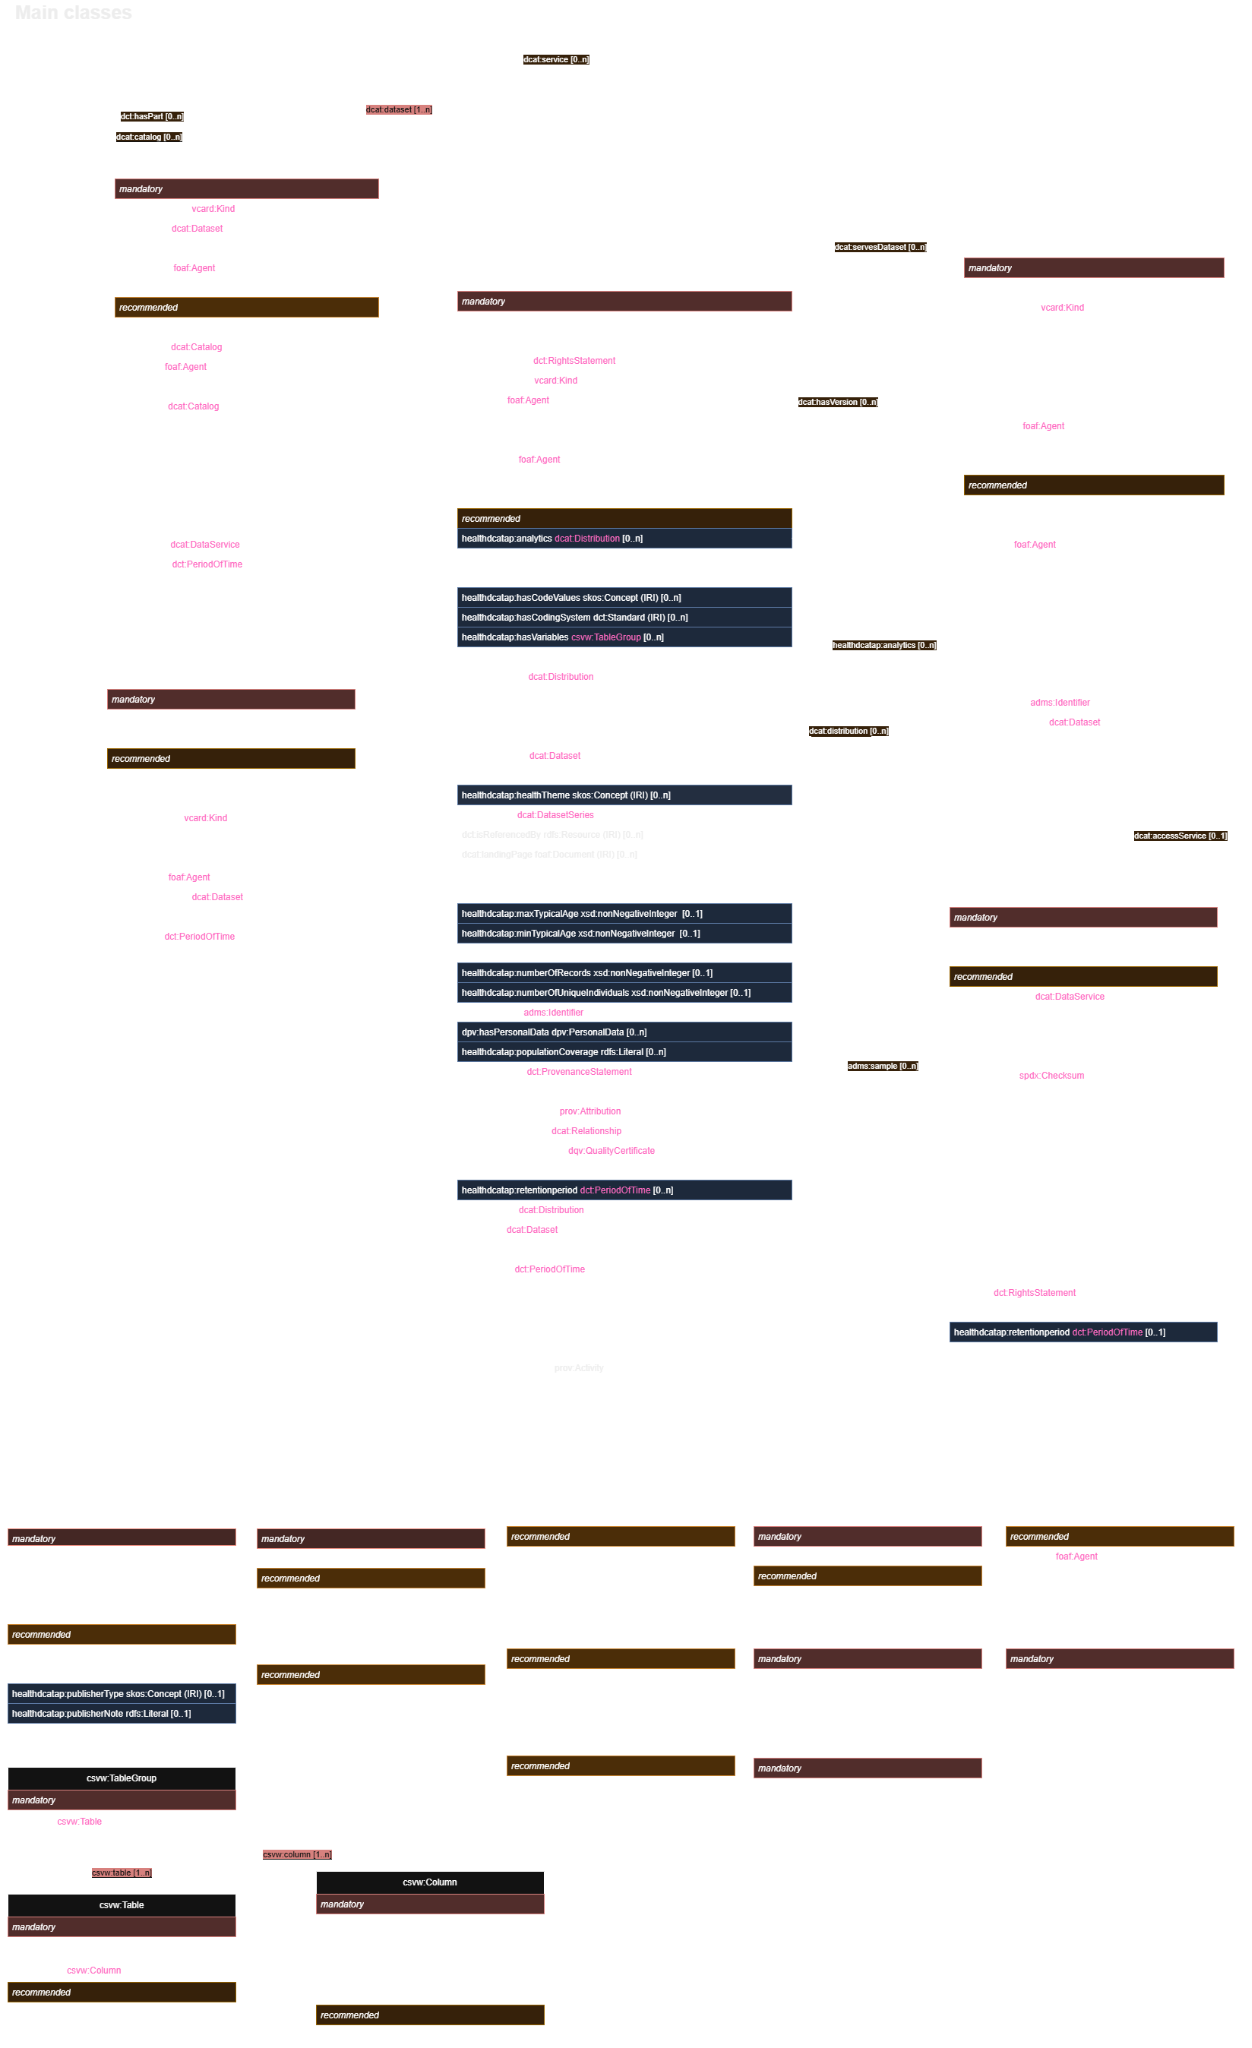
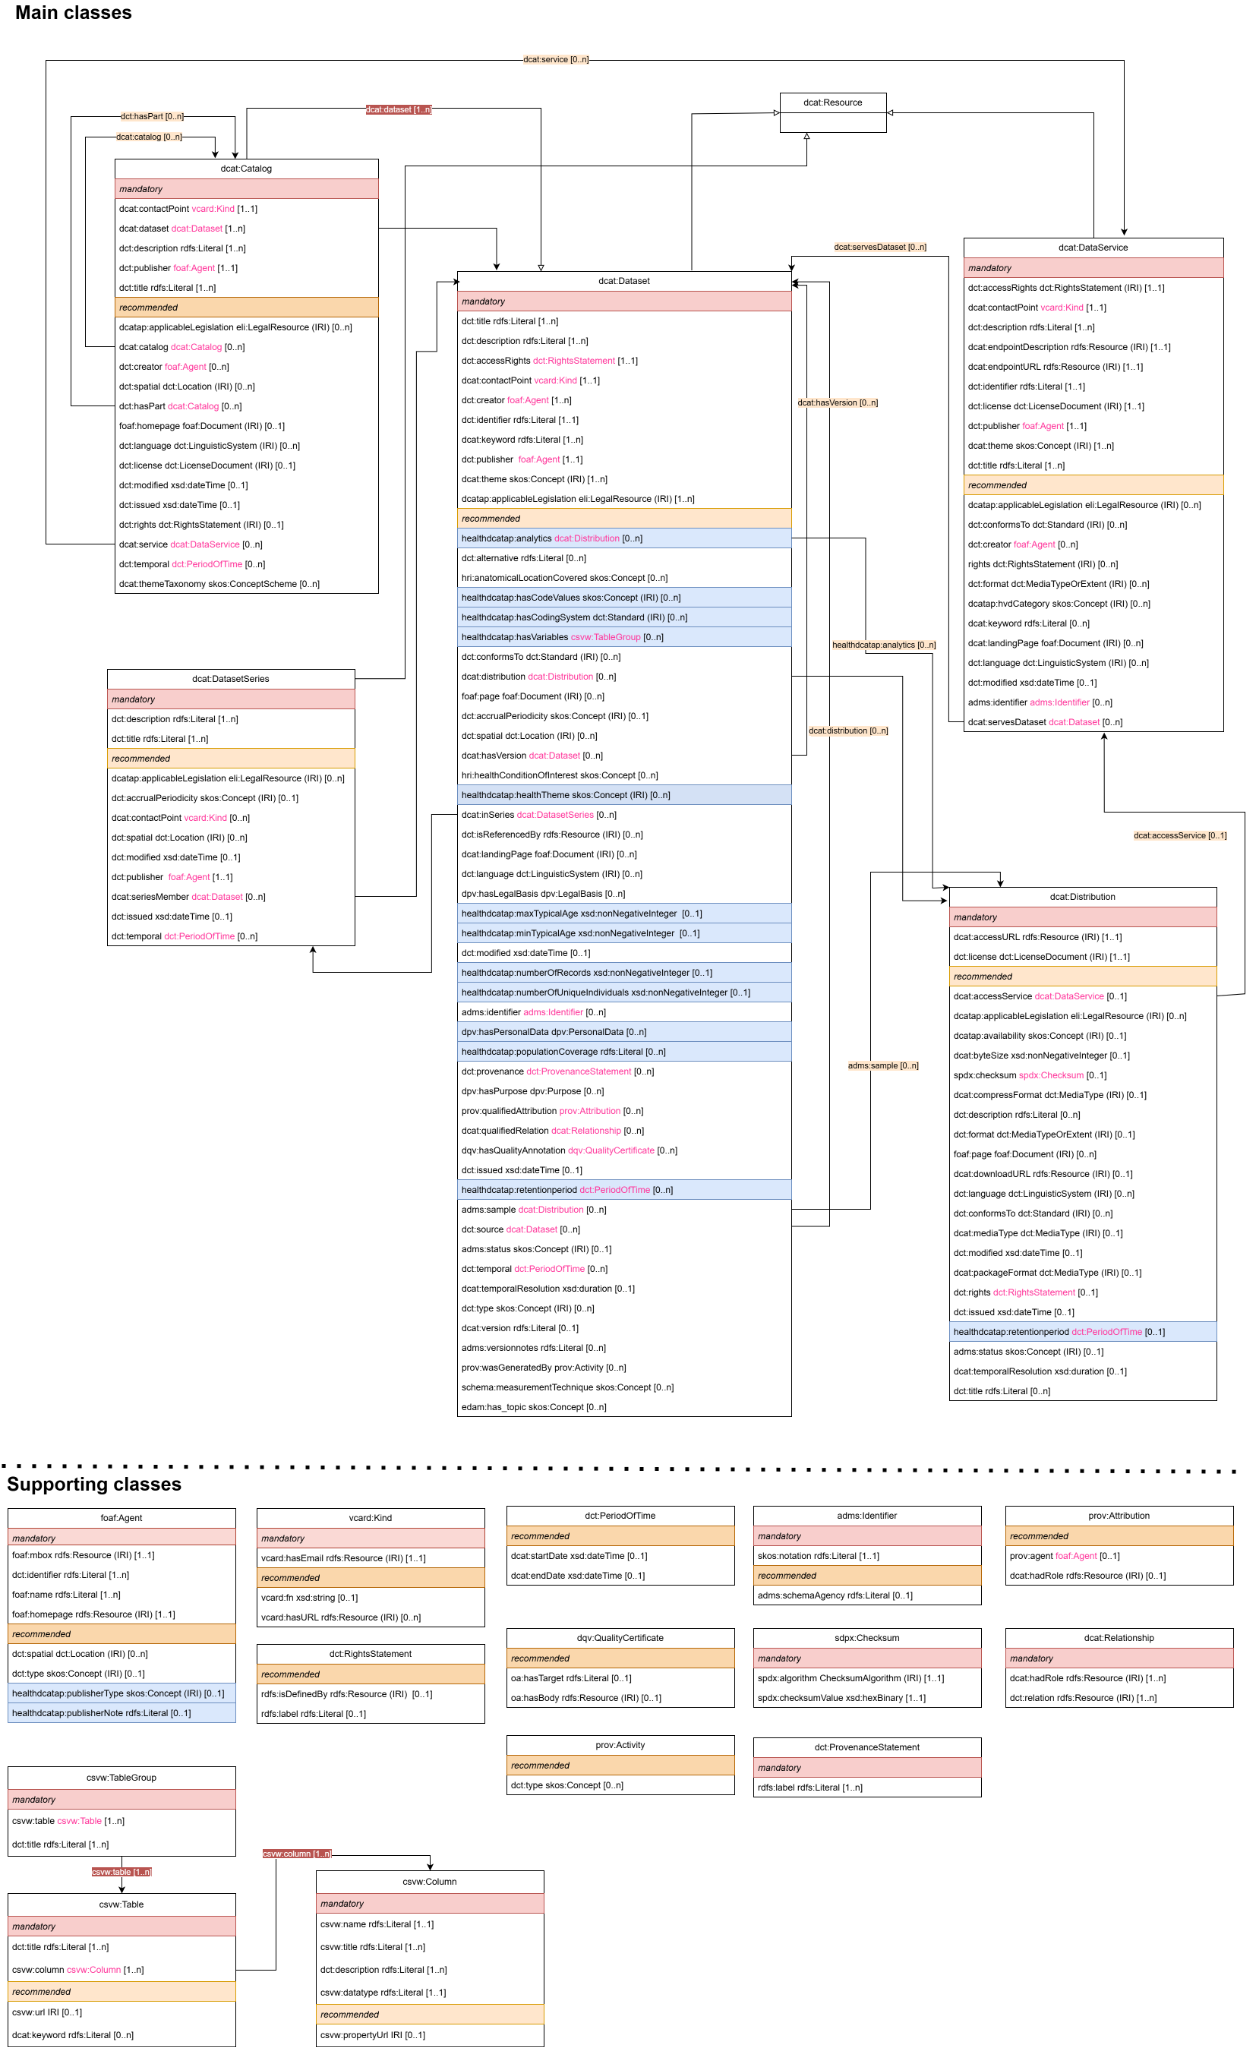
docs: replace the diagram with the corrected uploaded image
Keep the existing HRI_metadata_V2.1.png filename in the current
specification and saved v2.1.0 preview. Copy the supplied PNG unchanged
and synchronize the saved HTML image dimensions. Preserve all other
content and implementation.

diff --git a/releases/v2.1.0/index.html b/releases/v2.1.0/index.html
@@ -5118,7 +5118,7 @@ dfn > a.self-link::before      { content: "#"; }
    <div id="uml-class-diagram-v210"></div>
    <h3 class="heading settled" data-level="3.1" id="uml-class-diagram"><span class="secno">3.1. </span><span class="content">UML Class Diagram v2.1.0</span><a class="self-link" href="#uml-class-diagram"></a></h3>
    <p><a href="src/images/HRI_metadata_V2.1.png" target="_blank">
-  <img alt="Health-RI Metadata Diagram" height="2048" src="src/images/HRI_metadata_V2.1.png" style="width: 100%; max-width: 1000px; height: auto;" title="diagram" width="1252">
+  <img alt="Health-RI Metadata Diagram" height="2047" src="src/images/HRI_metadata_V2.1.png" style="width: 100%; max-width: 1000px; height: auto;" title="diagram" width="1252">
 </a></p>
    <p>Usage directions for the properties and their associated constraints that apply in the context of this profile, and the range of properties, are listed below.</p>
    <h2 class="heading settled" data-level="4" id="permanent-urls"><span class="secno">4. </span><span class="content">Permanent Urls</span><a class="self-link" href="#permanent-urls"></a></h2>
